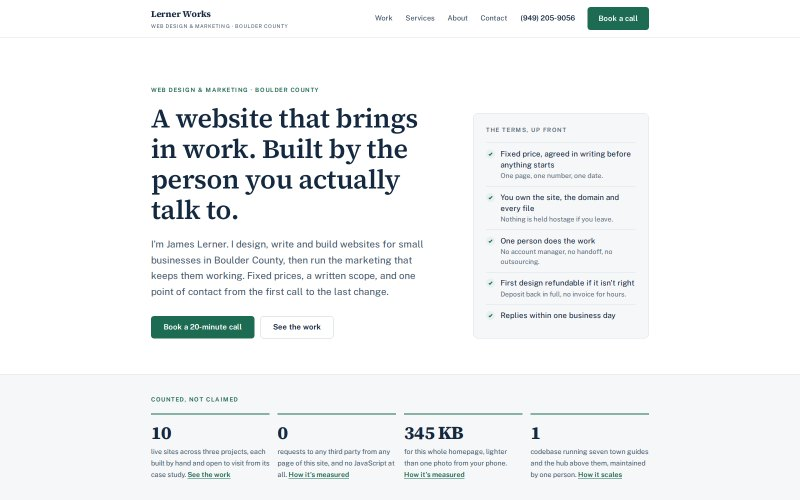
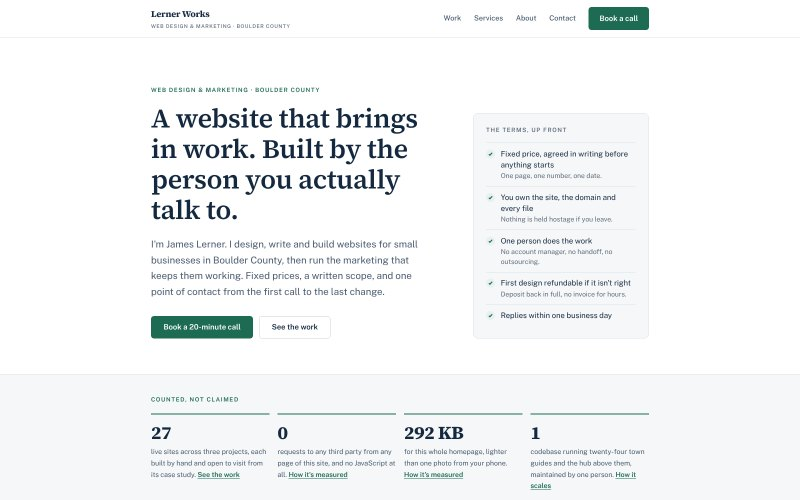
Site-wide: 27 live sites, new cards, re-measured weights
- Home "Counted, not claimed": 27 live sites (24 guides, the hub, AragoCor,
  this site) and twenty-four guides on one codebase; the /work/ list now
  names all 27, each checked answering on October 11.
- Work, home and Boulder County cards, and the Niwot study's note, follow
  both studies; card thumbnails regenerated.
- tools/measure.js --table re-run and pasted until it held still: home
  292 KB, Inside the Towns 662 KB. The lernerworks screenshots are re-taken
  because the home page they show changed.
- README: the counting method, the client's withdrawn claims, and the
  launch checklist items brought up to date; sitemap lastmod and JSON-LD
  dates moved for every page that changed.

Claude-Session: https://claude.ai/code/session_01BC4CzZTiusi41BmKJQg2Sg

diff --git a/work/index.html b/work/index.html
@@ -78,22 +78,22 @@
     <div class="work-grid work-grid--2 work-grid--page">
 
       <a class="wcard" href="./aragocor-minerals/">
-        <div class="wcard__img"><img src="../case-studies/aragocor/01-home-hero-thumb.jpg" width="800" height="500" loading="lazy" decoding="async" alt="AragoCor Minerals homepage: oolitic aragonite sized to your process, over Bahamian ocean photography" /></div>
+        <div class="wcard__img"><img src="../case-studies/aragocor/01-home-hero-thumb.jpg" width="800" height="500" loading="lazy" decoding="async" alt="AragoCor Minerals homepage: oolitic aragonite, supplied in four defined grades, over open ocean" /></div>
         <div class="wcard__body">
           <p class="wcard__tag">Client project · Industrial supplier · 2026</p>
           <h2>AragoCor Minerals</h2>
-          <p>A marketing site for a Bahamian aragonite supplier selling one product into five technical markets, plus the AI catalog, freight calculator and quote-request tool behind it.</p>
-          <p class="wcard__out"><strong>5 markets, 1 site</strong><span>Read the case study →</span></p>
+          <p>A marketing site for a Bahamian aragonite supplier selling four defined grades to technical buyers, every figure traced to a test, plus the AI catalog, freight calculator and quote-request tool built beside it.</p>
+          <p class="wcard__out"><strong>4 grades, 1 site</strong><span>Read the case study →</span></p>
         </div>
       </a>
 
       <a class="wcard" href="./inside-the-towns/">
-        <div class="wcard__img"><img src="../case-studies/inside-the-towns/01-hub-thumb.jpg" width="800" height="500" loading="lazy" decoding="async" alt="The Inside the Towns hub: independent guides to the small towns worth knowing, with seven guides live" /></div>
+        <div class="wcard__img"><img src="../case-studies/inside-the-towns/01-hub-thumb.jpg" width="800" height="500" loading="lazy" decoding="async" alt="The Inside the Towns hub: independent guides to the towns worth knowing, with a town picker naming all 24 guides" /></div>
         <div class="wcard__body">
           <p class="wcard__tag">Own project · Network of community guides · 2026</p>
           <h2>Inside the Towns</h2>
-          <p>Seven independent guides to Colorado Front Range towns and the hub above them, built from one Astro codebase. Each site carries its own color, photography and local research; none of them is special-cased in any component.</p>
-          <p class="wcard__out"><strong>1 codebase, 8 sites</strong><span>Read the case study →</span></p>
+          <p>Twenty-four independent Colorado town guides, from the Front Range to the mountains, and the hub above them, built from one Astro codebase. Each site carries its own color, photography and local research; none of them is special-cased in any component.</p>
+          <p class="wcard__out"><strong>1 codebase, 25 sites</strong><span>Read the case study →</span></p>
         </div>
       </a>
 
@@ -121,10 +121,12 @@
 
     <!-- Every site the case studies describe, open to visit. Screenshots are
          records; the live sites are the evidence. Keep this list in step with
-         the studies: a site that goes away comes off it the same day. -->
+         the studies: a site that goes away comes off it the same day. The
+         town guides are in the network's own order (its registry), which is
+         the order they launched. All 27 answered on October 11, 2026. -->
     <div class="live">
       <p class="live__h">All of it is live</p>
-      <p class="live__lede">Ten sites, and every one of them is open to visit. The screenshots above are records; the sites themselves are the evidence.</p>
+      <p class="live__lede">Twenty-seven sites, and every one of them is open to visit. The screenshots above are records; the sites themselves are the evidence.</p>
       <ul>
         <li><a href="https://insidethetowns.com" rel="noopener">insidethetowns.com</a></li>
         <li><a href="https://insideniwot.com" rel="noopener">insideniwot.com</a></li>
@@ -134,6 +136,23 @@
         <li><a href="https://insidejohnstown.com" rel="noopener">insidejohnstown.com</a></li>
         <li><a href="https://insidetimnath.com" rel="noopener">insidetimnath.com</a></li>
         <li><a href="https://insideelizabeth.com" rel="noopener">insideelizabeth.com</a></li>
+        <li><a href="https://insidewindsorco.com" rel="noopener">insidewindsorco.com</a></li>
+        <li><a href="https://insidefortcollins.com" rel="noopener">insidefortcollins.com</a></li>
+        <li><a href="https://insidelongmontco.com" rel="noopener">insidelongmontco.com</a></li>
+        <li><a href="https://insidelovelandco.com" rel="noopener">insidelovelandco.com</a></li>
+        <li><a href="https://carbonvalleyguide.com" rel="noopener">carbonvalleyguide.com</a></li>
+        <li><a href="https://insideseverance.com" rel="noopener">insideseverance.com</a></li>
+        <li><a href="https://insidefortlupton.com" rel="noopener">insidefortlupton.com</a></li>
+        <li><a href="https://insideestespark.com" rel="noopener">insideestespark.com</a></li>
+        <li><a href="https://insidegolden.com" rel="noopener">insidegolden.com</a></li>
+        <li><a href="https://insideevergreenco.com" rel="noopener">insideevergreenco.com</a></li>
+        <li><a href="https://insidenederland.com" rel="noopener">insidenederland.com</a></li>
+        <li><a href="https://insideblackhawk.com" rel="noopener">insideblackhawk.com</a></li>
+        <li><a href="https://insideidahosprings.com" rel="noopener">insideidahosprings.com</a></li>
+        <li><a href="https://insidegeorgetownco.com" rel="noopener">insidegeorgetownco.com</a></li>
+        <li><a href="https://insidegrandlake.com" rel="noopener">insidegrandlake.com</a></li>
+        <li><a href="https://insidemanitousprings.com" rel="noopener">insidemanitousprings.com</a></li>
+        <li><a href="https://insideleadville.com" rel="noopener">insideleadville.com</a></li>
         <li><a href="https://aragocorminerals.com" rel="noopener">aragocorminerals.com</a></li>
         <li><span>lernerworks.com — you're on it</span></li>
       </ul>

diff --git a/work/lernerworks/index.html b/work/lernerworks/index.html
@@ -51,7 +51,7 @@
       "mainEntityOfPage": "https://www.lernerworks.com/work/lernerworks/",
       "image": "https://www.lernerworks.com/case-studies/lernerworks/01-home.png",
       "datePublished": "2026-09-11",
-      "dateModified": "2026-10-05",
+      "dateModified": "2026-10-11",
       "author": {"@type": "Person", "name": "James Lerner", "url": "https://www.lernerworks.com/about/"},
       "publisher": {"@type": "ProfessionalService", "@id": "https://www.lernerworks.com/#business", "name": "Lerner Works", "url": "https://www.lernerworks.com/"}
     },
@@ -142,7 +142,7 @@
         <div><dt>requests to any third party, on any page: no analytics, no font CDN, no widgets</dt><dd>0</dd></div>
         <div><dt>lines of JavaScript run in the visitor's browser, including the mobile menu</dt><dd>0</dd></div>
         <div><dt>to load the home page in full, images included</dt><dd>7 requests</dd></div>
-        <div><dt>for the whole home page, of which 143 KB is images: the three case-study thumbnails</dt><dd>287 KB</dd></div>
+        <div><dt>for the whole home page, of which 146 KB is images: the three case-study thumbnails</dt><dd>292 KB</dd></div>
       </dl>
     </div>
   </div>
@@ -207,24 +207,24 @@
 
     <div class="cs-table" tabindex="0" role="region" aria-label="Measured page weights">
       <table>
-        <caption>Regenerated in one run of <code>tools/measure.js</code> on October 5, 2026. Fonts and the stylesheet are cached after the first page; screenshots account for most of the difference between pages.</caption>
+        <caption>Regenerated in one run of <code>tools/measure.js</code> on October 11, 2026. Fonts and the stylesheet are cached after the first page; screenshots account for most of the difference between pages.</caption>
         <thead><tr><th scope="col">Page</th><th scope="col">Requests</th><th scope="col">External</th><th scope="col">JavaScript</th><th scope="col">Total</th></tr></thead>
         <tbody>
-          <tr><td>Home</td><td>7</td><td>0</td><td>none</td><td>287 KB</td></tr>
-          <tr><td>Boulder County web design</td><td>4</td><td>0</td><td>none</td><td>137 KB</td></tr>
-          <tr><td>Work</td><td>8</td><td>0</td><td>none</td><td>352 KB</td></tr>
-          <tr><td>Inside the Towns</td><td>12</td><td>0</td><td>none</td><td>447 KB</td></tr>
-          <tr><td>AragoCor Minerals</td><td>7</td><td>0</td><td>none</td><td>653 KB</td></tr>
-          <tr><td>TownofNiwot.com</td><td>8</td><td>0</td><td>none</td><td>924 KB</td></tr>
-          <tr><td>This page</td><td>7</td><td>0</td><td>none</td><td>519 KB</td></tr>
-          <tr><td>Services</td><td>4</td><td>0</td><td>none</td><td>138 KB</td></tr>
-          <tr><td>About</td><td>4</td><td>0</td><td>none</td><td>131 KB</td></tr>
-          <tr><td>Contact</td><td>4</td><td>0</td><td>none</td><td>131 KB</td></tr>
+          <tr><td>Home</td><td>7</td><td>0</td><td>none</td><td>292 KB</td></tr>
+          <tr><td>Boulder County web design</td><td>4</td><td>0</td><td>none</td><td>139 KB</td></tr>
+          <tr><td>Work</td><td>8</td><td>0</td><td>none</td><td>359 KB</td></tr>
+          <tr><td>Inside the Towns</td><td>29</td><td>0</td><td>none</td><td>662 KB</td></tr>
+          <tr><td>AragoCor Minerals</td><td>7</td><td>0</td><td>none</td><td>592 KB</td></tr>
+          <tr><td>TownofNiwot.com</td><td>8</td><td>0</td><td>none</td><td>926 KB</td></tr>
+          <tr><td>This page</td><td>7</td><td>0</td><td>none</td><td>575 KB</td></tr>
+          <tr><td>Services</td><td>4</td><td>0</td><td>none</td><td>140 KB</td></tr>
+          <tr><td>About</td><td>4</td><td>0</td><td>none</td><td>133 KB</td></tr>
+          <tr><td>Contact</td><td>4</td><td>0</td><td>none</td><td>133 KB</td></tr>
         </tbody>
       </table>
     </div>
 
-    <p>Before the rebuild, the home page was 803 KB, almost all of it screenshots saved as PNG. Re-encoding them as JPEG and using an 800 px thumbnail on the cards rather than the full-size capture took it to 308 KB, with no change to what a reader sees. The same two moves are why the heaviest pages on the site are case studies carrying screenshots as evidence, rather than the home page. It is 287 KB now: the strip of counted figures under the hero and the stylesheet that draws it added a little, and the lernerworks.com card's thumbnail is lighter than the one it replaced.</p>
+    <p>Before the rebuild, the home page was 803 KB, almost all of it screenshots saved as PNG. Re-encoding them as JPEG and using an 800 px thumbnail on the cards rather than the full-size capture took it to 308 KB, with no change to what a reader sees. The same two moves are why the heaviest pages on the site are case studies carrying screenshots as evidence, rather than the home page. It is 292 KB now: the strip of counted figures under the hero and the stylesheet that draws it added a little, the lernerworks.com card's thumbnail is lighter than the one it replaced, and on October 11 the re-taken Inside the Towns thumbnail and the twenty-four town palettes the network diagram needs added 5 KB between them.</p>
 
     <p>What is not measured here: PageSpeed scores, because they need a public URL and a moment in time, and real-visitor timings, because there is no analytics. When I quote a PageSpeed figure elsewhere on this site, it is from a dated screenshot.</p>
 

diff --git a/index.html b/index.html
@@ -125,18 +125,18 @@
 <!-- PROOF: four figures, each counted on a page a reader can go and check.
      Nothing here is an estimate or a claim about reach. Every label links to
      the case study that measures its number; the number never stands alone.
-     "10 live sites" is seven town guides and their hub (Inside the Towns),
-     AragoCor Minerals, and this one. The page weight is this page's own,
+     "27 live sites" is twenty-four town guides and their hub (Inside the
+     Towns), AragoCor Minerals, and this one. The page weight is this page's own,
      printed by tools/measure.js --table: re-measure whenever this page or
      anything it loads changes, and paste the line it prints. -->
 <section class="proof" aria-labelledby="proof-h">
   <div class="wrap">
     <p class="eyebrow" id="proof-h">Counted, not claimed</p>
     <dl class="stats">
-      <div class="stat"><dt>live sites across three projects, each built by hand and open to visit from its case study. <a href="./work/">See the work</a></dt><dd>10</dd></div>
+      <div class="stat"><dt>live sites across three projects, each built by hand and open to visit from its case study. <a href="./work/">See the work</a></dt><dd>27</dd></div>
       <div class="stat"><dt>requests to any third party from any page of this site, and no JavaScript at all. <a href="./work/lernerworks/">How it's measured</a></dt><dd>0</dd></div>
-      <div class="stat"><dt>for this whole homepage, lighter than one photo from your phone. <a href="./work/lernerworks/">How it's measured</a></dt><dd>287 KB</dd></div>
-      <div class="stat"><dt>codebase running seven town guides and the hub above them, maintained by one person. <a href="./work/inside-the-towns/">How it scales</a></dt><dd>1</dd></div>
+      <div class="stat"><dt>for this whole homepage, lighter than one photo from your phone. <a href="./work/lernerworks/">How it's measured</a></dt><dd>292 KB</dd></div>
+      <div class="stat"><dt>codebase running twenty-four town guides and the hub above them, maintained by one person. <a href="./work/inside-the-towns/">How it scales</a></dt><dd>1</dd></div>
     </dl>
   </div>
 </section>
@@ -156,22 +156,22 @@
     <div class="work-grid">
 
       <a class="wcard" href="./work/aragocor-minerals/">
-        <div class="wcard__img"><img src="./case-studies/aragocor/01-home-hero-thumb.jpg" width="800" height="500" loading="lazy" decoding="async" alt="AragoCor Minerals homepage: oolitic aragonite sized to your process, over Bahamian ocean photography" /></div>
+        <div class="wcard__img"><img src="./case-studies/aragocor/01-home-hero-thumb.jpg" width="800" height="500" loading="lazy" decoding="async" alt="AragoCor Minerals homepage: oolitic aragonite, supplied in four defined grades, over open ocean" /></div>
         <div class="wcard__body">
           <p class="wcard__tag">Client project · Industrial supplier · 2026</p>
           <h3>AragoCor Minerals</h3>
-          <p>A marketing site for a mineral supplier selling one product into five technical markets, plus the AI sourcing tool that turns visitors into quote requests.</p>
-          <p class="wcard__out"><strong>5 markets, 1 site</strong><span>Read the case study →</span></p>
+          <p>A marketing site for a mineral supplier selling one material, in four defined grades, to very different industries, with every figure traced to a test, plus an AI sourcing tool.</p>
+          <p class="wcard__out"><strong>4 grades, 1 site</strong><span>Read the case study →</span></p>
         </div>
       </a>
 
       <a class="wcard" href="./work/inside-the-towns/">
-        <div class="wcard__img"><img src="./case-studies/inside-the-towns/01-hub-thumb.jpg" width="800" height="500" loading="lazy" decoding="async" alt="The Inside the Towns hub: independent guides to the small towns worth knowing, with seven guides live" /></div>
+        <div class="wcard__img"><img src="./case-studies/inside-the-towns/01-hub-thumb.jpg" width="800" height="500" loading="lazy" decoding="async" alt="The Inside the Towns hub: independent guides to the towns worth knowing, with a town picker naming all 24 guides" /></div>
         <div class="wcard__body">
           <p class="wcard__tag">Own project · Network of community guides · 2026</p>
           <h3>Inside the Towns</h3>
-          <p>Seven independent guides to Colorado Front Range towns and the hub above them, built from one Astro codebase. Each site carries its own color and local research; none is special-cased in code.</p>
-          <p class="wcard__out"><strong>1 codebase, 8 sites</strong><span>Read the case study →</span></p>
+          <p>Twenty-four independent Colorado town guides and the hub above them, built from one Astro codebase. Each site carries its own color and local research; none is special-cased in code.</p>
+          <p class="wcard__out"><strong>1 codebase, 25 sites</strong><span>Read the case study →</span></p>
         </div>
       </a>
 

diff --git a/work/townofniwot/index.html b/work/townofniwot/index.html
@@ -51,7 +51,7 @@
       "mainEntityOfPage": "https://www.lernerworks.com/work/townofniwot/",
       "image": "https://www.lernerworks.com/case-studies/townofniwot/01-home.jpg",
       "datePublished": "2026-09-11",
-      "dateModified": "2026-09-30",
+      "dateModified": "2026-10-11",
       "author": {"@type": "Person", "name": "James Lerner", "url": "https://www.lernerworks.com/about/"},
       "publisher": {"@type": "ProfessionalService", "@id": "https://www.lernerworks.com/#business", "name": "Lerner Works", "url": "https://www.lernerworks.com/"}
     },
@@ -149,7 +149,7 @@
 
   <div class="wrap cs-body">
 
-    <p class="note"><strong>Where this went.</strong> This guide is the origin of a network. Its content model, sourcing rules and editorial standard now run seven Front Range town sites, and townofniwot.com redirects to Inside Niwot — every old section URL to its new page, everything else to the home page. The case study below describes the site as it was built and launched; <a class="link" href="../inside-the-towns/">Inside the Towns</a> describes what it became.</p>
+    <p class="note"><strong>Where this went.</strong> This guide is the origin of a network. Its content model, sourcing rules and editorial standard now run twenty-four Colorado town guides, and townofniwot.com redirects to Inside Niwot — every old section URL to its new page, everything else to the home page. The case study below describes the site as it was built and launched; <a class="link" href="../inside-the-towns/">Inside the Towns</a> describes what it became.</p>
 
     <h2>The situation</h2>
     <p>Niwot is an unincorporated community of about 4,300 people between Boulder and Longmont. It has two blocks of brick storefronts, a red caboose in the park, a business association, an arts association and a historical society, but no town hall and no official website. A resident who wants to know who fixes the road or handles a building permit has to know the answer is "the county"; a visitor deciding whether to make the drive finds a scatter of listings and an out-of-date calendar.</p>

diff --git a/boulder-county-web-design/index.html b/boulder-county-web-design/index.html
@@ -213,7 +213,7 @@
         <div class="principle">
           <p class="principle__n">Own project · Local publishing</p>
           <h3>Inside the Towns</h3>
-          <p>Seven Front Range town guides and one regional hub built from a maintainable system, with events, directories and local research kept distinct for every town.</p>
+          <p>Twenty-four Colorado town guides and one regional hub built from a maintainable system, with events, directories and local research kept distinct for every town.</p>
           <p><a class="link" href="../work/inside-the-towns/">Read the Inside the Towns case study →</a></p>
         </div>
       </div>

diff --git a/README.md b/README.md
@@ -8,7 +8,7 @@ requests at all.
 ```
 index.html                            home
 work/index.html                       /work/ — case study index
-work/inside-the-towns/index.html      own project — the seven-town network
+work/inside-the-towns/index.html      own project — the 24-guide town network
 work/townofniwot/index.html           own project — community guide (now redirects)
 work/aragocor-minerals/index.html     client project
 work/lernerworks/index.html           this site, as a case study
@@ -24,7 +24,7 @@ assets/og/                            link-preview cards: card.html template,
                                       icon.html, the touch icon's source
 apple-touch-icon.png                  home-screen icon, rendered by render.js
 case-studies/<slug>/                  screenshots used by that case study
-case-studies/inside-the-towns/        hub capture + seven town thumbnails
+case-studies/inside-the-towns/        hub capture + 24 town thumbnails
 areas/<town>/index.html               service-area pages — SCAFFOLDED, noindex,
                                       unwritten; see "Service-area pages"
 tools/check.js                        PRE-FLIGHT: every file-level check in
@@ -96,9 +96,11 @@ depends on them.
   work is never dressed as a commission. Outcomes in the "At a glance" strips
   are limited to things that can be counted. The "Counted, not claimed" strip
   under the home-page hero follows the same rule: every figure links to the
-  case study that measures it, and none stands alone. "10 live sites" is the
-  seven town guides and their hub, AragoCor, and this site — if one of them
-  goes away, the number and the list on `/work/` change the same day. The
+  case study that measures it, and none stands alone. "27 live sites" is the
+  twenty-four town guides and their hub, AragoCor, and this site — if one of
+  them goes away, the number and the list on `/work/` change the same day.
+  (It was 10 until October 11, 2026, when the study caught up with seventeen
+  guides launched in the two weeks before.) The
   page weight in the strip is the home page's own: `measure.js --table`
   prints the line, so re-measure and paste it whenever the home page or
   anything it loads changes. (It replaced a Lighthouse score for
@@ -107,13 +109,26 @@ depends on them.
 - **Fresh figures carry their date.** The Inside the Towns study quotes counts
   from the network's repository and says which commit it read; the AragoCor
   and Niwot studies say when the live site was last checked. When a count
-  moves (it did: 23 components became 28 in nine days), change the number
-  *and* the date, and re-read the "Result" paragraph that explains the
-  difference. Vercel Web Analytics is on every page of the towns network but
-  is not switched on in the Vercel dashboard for any of the eight projects
-  (checked September 29, 2026 — the API answers "Web Analytics not found"),
-  which is why that study says traffic is "Not yet measured". It is a
-  dashboard click to enable; then wait for a period worth quoting.
+  moves (it did: 23 components became 28 in nine days, then 38, and seven
+  guides became twenty-four in three weeks), change the number *and* the
+  date, and re-read the "Result" paragraph that explains the difference. Count
+  the way the last pass did so the figures stay comparable: places and events
+  are the files in each live guide's `places/` and `events/` folders, staging
+  excluded; tests are `npm test`'s own total; routes are the page patterns in
+  `src/integrations/town-routes.ts` and `src/pages/`, feeds and icons not
+  counted. Vercel Web Analytics is on every page of the towns network, but on
+  September 29, 2026 it was not switched on in the dashboard for any of the
+  original eight projects (the API answered "Web Analytics not found"), and the
+  network's own notes say it still has to be enabled by hand on the newer
+  ones — which is why that study says traffic is "Not yet measured". It is a
+  dashboard click per project; then wait for a period worth quoting.
+- **A client's withdrawn claim is withdrawn here too.** AragoCor keeps a
+  register of claims it has retracted (`data/technical-values.json` in its
+  repository) and its own validator fails on any of them. The October 11, 2026
+  pass found this site still quoting two — "96–98% CaCO₃" and one 20–325 mesh
+  range across every grade — plus a home-page grid and a five-stage sourcing
+  story the client site had dropped on September 25. Re-read the case study
+  against the client site, not against the last version of the study.
 - **Nothing unfinished ships as a placeholder.** What the site does not have
   yet is said in a plain sentence — "Not yet measured: traffic and newsletter
   signups" on `/work/inside-the-towns/` — rather than shown as a dashed slot
@@ -533,14 +548,15 @@ thin ones is not.
       say "20-minute"; the event does not.
 - [x] Apex vs `www` settled: everything names `www.lernerworks.com`, the host
       that actually serves. `node tools/check-host.js` re-proves it.
-- [x] Inside the Towns screenshots — hub capture and seven town thumbnails,
-      from a local build. See `case-studies/inside-the-towns/README.md`.
+- [x] Inside the Towns screenshots — hub capture and twenty-four town
+      thumbnails, from local builds at the network's October 10 commit. See
+      `case-studies/inside-the-towns/README.md`.
 - [x] Every page passes axe-core at WCAG 2.2 AA, at three widths.
 - [ ] Replace the Inside the Towns "Not yet measured" line with Buttondown
       subscribers and Search Console clicks, each with its date range and
       source. Needs a real reporting period; do not estimate. First enable Web
-      Analytics on the eight `inside*` projects in the Vercel dashboard — the
-      script is already on every page, but the dashboard side is off, so
-      there is nothing to read yet.
+      Analytics on every live project of the network in the Vercel dashboard
+      (twenty-five, plus Castle Rock when it launches) — the script is already
+      on every page, but the dashboard side has to be switched on by hand.
 - [ ] Run PageSpeed on https://www.lernerworks.com/ after this deploys and, if
       you quote it anywhere, quote it with the date.
